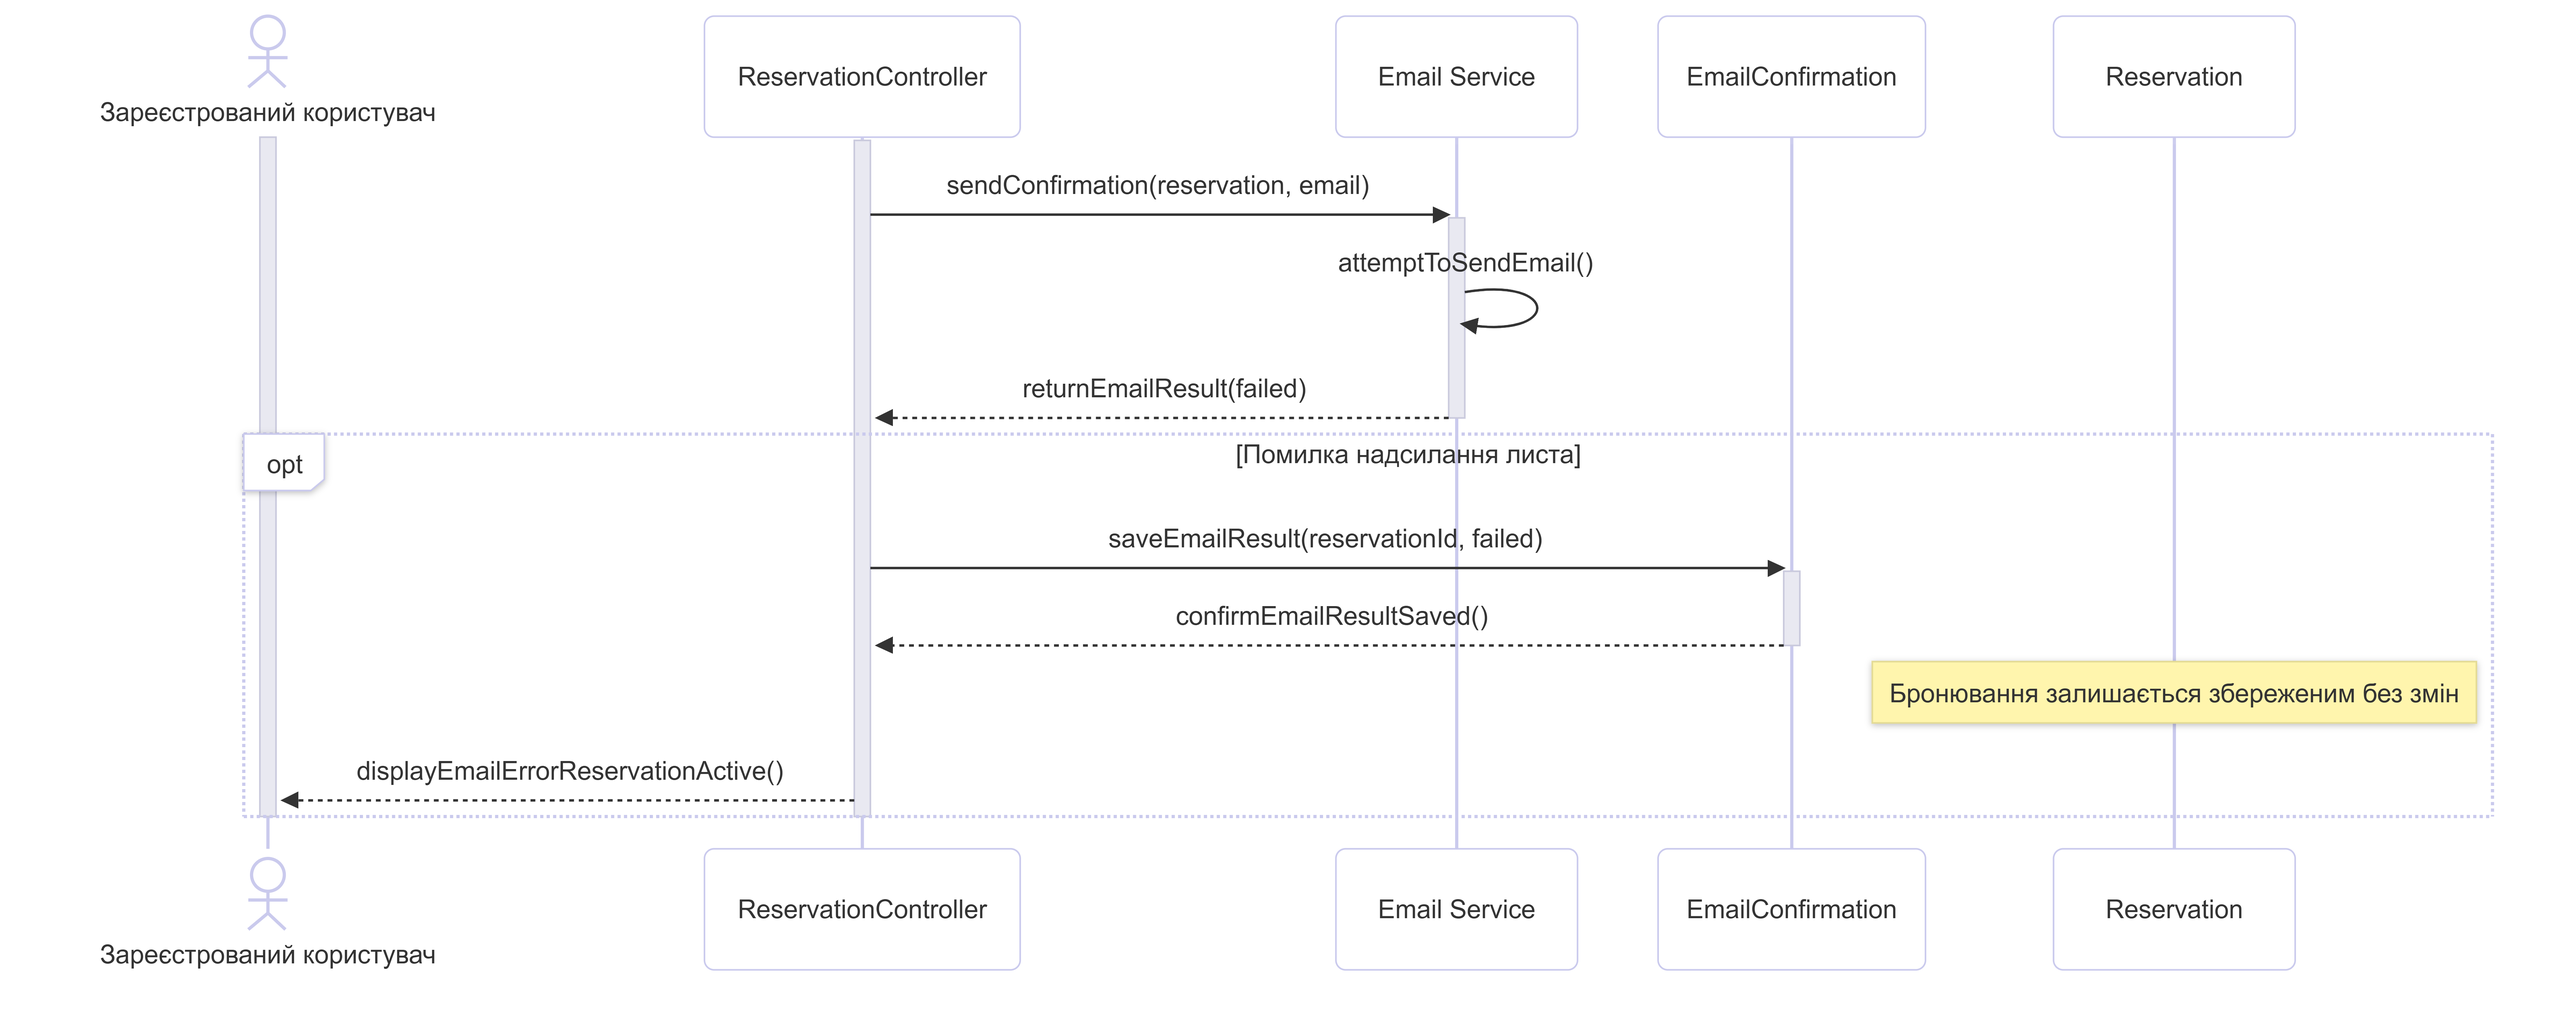
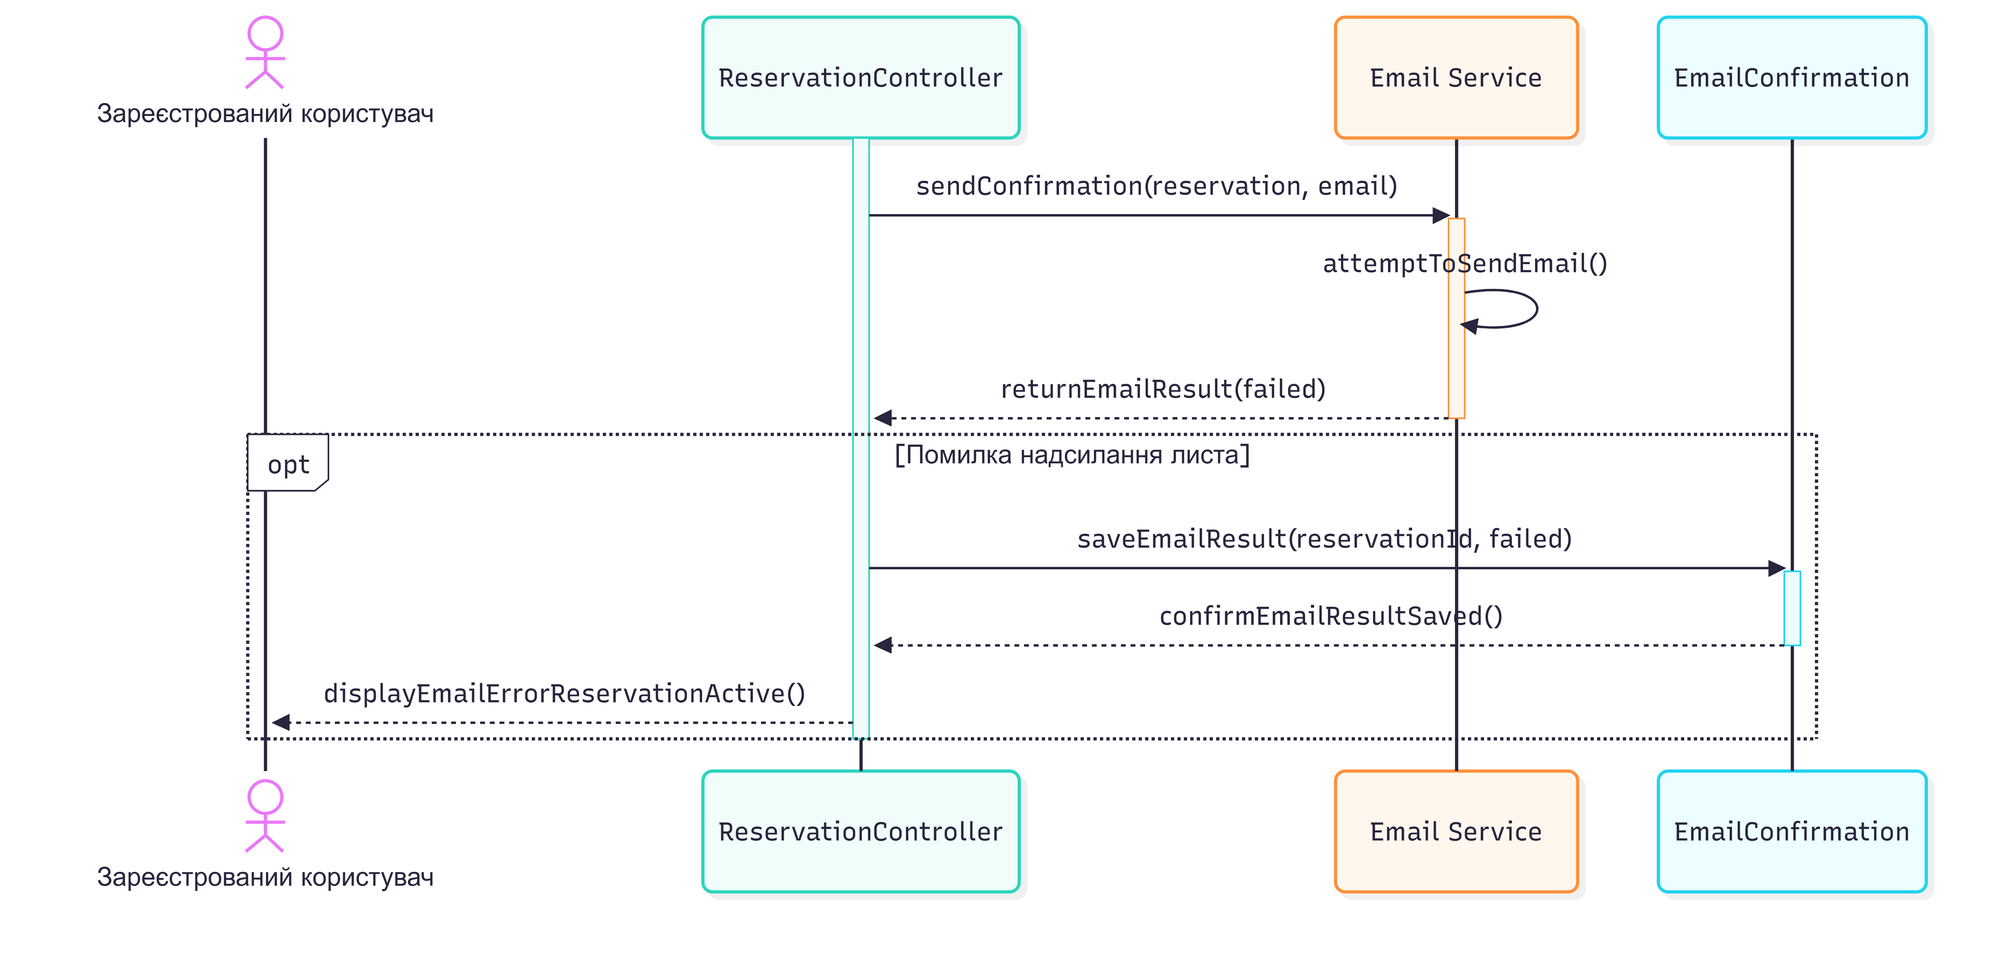
refine third scenario

diff --git a/lab3/scenario-3.md b/lab3/scenario-3.md
@@ -8,9 +8,8 @@
 - ReservationController - координує надсилання листа та обробляє його результат.
 - Email Service - намагається надіслати лист-підтвердження користувачу.
 - EmailConfirmation - зберігає інформацію про результат надсилання листа.
-- Reservation - зберігає створене бронювання, яке залишається чинним навіть у разі помилки надсилання листа.
 
-**Передумави:** користувач успішно створив бронювання, яке вже збережене в базі даних.
+**Передумови:** користувач успішно створив бронювання, яке вже збережене в базі даних.
 
 **Послідовність дій:**
 
@@ -23,7 +22,7 @@
 7. ReservationController повідомляє користувача про те, що бронювання створене, але лист-підтвердження не вдалося надіслати.
 8. Створене бронювання залишається збереженим у базі даних і не скасовується через помилку надсилання листа.
 
-**Результат:** бронювання збередене та залишається чинним, а інформація про помилку надсилання листа зафіксована в системі.
+**Результат:** бронювання збережене та залишається чинним, а інформація про помилку надсилання листа зафіксована в системі.
 
 Sequence-діаграма:
 
@@ -33,9 +32,7 @@ sequenceDiagram
     participant RC as ReservationController
     participant ES as Email Service
     participant EC as EmailConfirmation
-    participant R as Reservation
 
-    activate User
     activate RC
 
     RC->>ES: sendConfirmation(reservation, email)
@@ -50,11 +47,8 @@ sequenceDiagram
         EC-->>RC: confirmEmailResultSaved()
         deactivate EC
 
-        Note over R: Бронювання залишається збереженим без змін
-
         RC-->>User: displayEmailErrorReservationActive()
     end
 
     deactivate RC
-    deactivate User
 ```

diff --git a/lab3/spec.md b/lab3/spec.md
@@ -87,7 +87,7 @@
 
 **Мета:** Забезпечити збереження бронювання навіть у разі невдалого надсилання листа-підтвердження.
 
-**Учасники:** Зареєстрований користувач, ReservationController, Reservation, Email Service, EmailConfirmation.
+**Учасники:** Зареєстрований користувач, ReservationController, Email Service, EmailConfirmation.
 
 **Передумови:** Користувач успішно створив бронювання, яке збережене в базі даних.
 
@@ -97,8 +97,8 @@
 2. Email Service намагається надіслати лист-підтвердження.
 3. Email Service отримує помилку під час надсилання листа.
 4. Email Service повертає інформацію про невдале надсилання до ReservationController.
-5. ReservationController передає результат до EmailConfirmation для збереження.
-6. ReservationCOntroller повідомляє користувача про помилку надсилання листа.
+5. ReservationController передає результат невдалого надсилання до EmailConfirmation для збереження.
+6. ReservationController повідомляє користувача про помилку надсилання листа.
 7. Бронювання залишається чинним, оскільки його вже було збережено в базі даних.
 
 **Результат:** Бронювання збережене, а інформація про помилку надсилання листа зафіксована.
